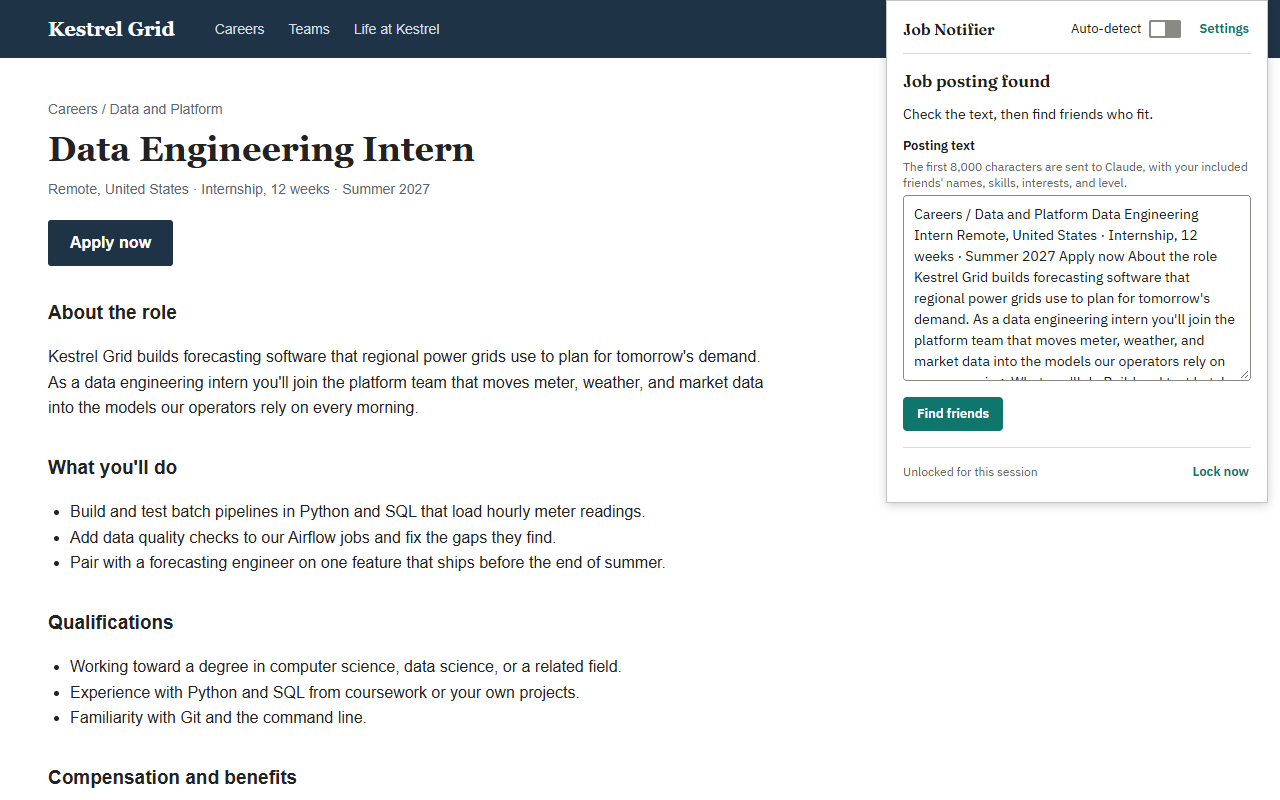
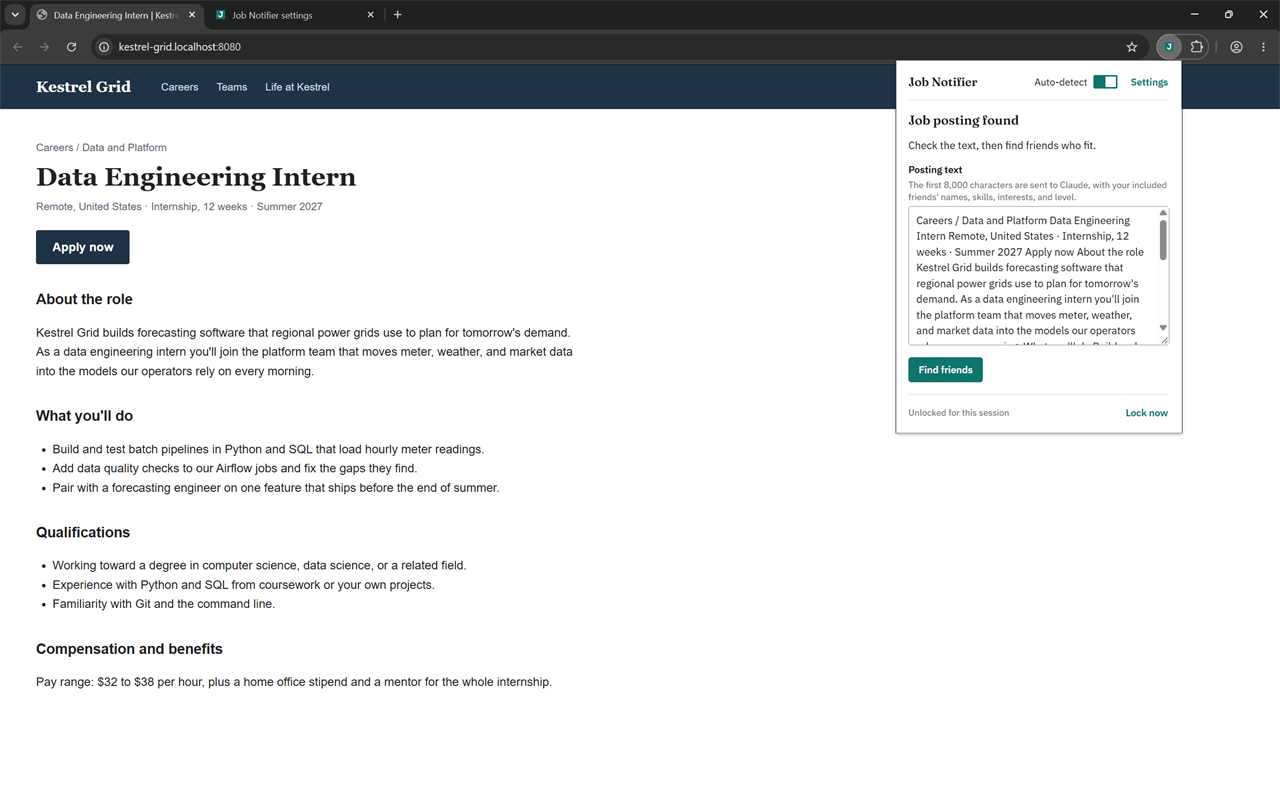
Add the real-Chrome store screenshot 2; all 48 criteria met
The user captured the popup on the store demo page in the clean test
profile (whole window, popup attached to the toolbar icon, no taskbar
or personal browser UI). Scaled without distortion to 1280x800 RGB;
the page's own white background extends the bottom (no scrollbar,
white bottom rows, edge columns checked). designer: PASS.

This closes criterion 21 and P-10, so all 48 release criteria are met.
What remains is the user's: merge PR #4 then this PR, and submit.

diff --git a/PROGRESS.md b/PROGRESS.md
@@ -26,14 +26,13 @@ Specs: [docs/specs/public-release.md](docs/specs/public-release.md) and [docs/sp
   - **0 not met.**
 - Retro: the interim entry plus a final addendum are in `~/Documents/team-notes/retros.md`.
 
+- 2026-11-27: designer confirmed `8384ea1`'s copy fixes and the spec Design copy now matches the shipped UI (`40d5bfb`); `precheck.js` 12.2 updated (`a0ca4ee`).
+- 2026-11-27: store screenshot 2 recaptured by the user in the clean test profile on the store demo page (`kestrel-grid.localhost:8080/`), whole window, no taskbar or personal UI; scaled without distortion to 1280x800 RGB with the page's own white extending the bottom (no scrollbar, white bottom rows, edge columns checked). designer: PASS (candidate A, "Job posting found"). Criterion 21 and P-10 are now met: **48 of 48 criteria met.**
+
 ## Next
-1. **Screenshot-2 decision (the user).** The current `docs/assets/screenshot-2-popup.png` is a whole-window capture with no recorded designer review.
-   - **Recapture:** follow walkthrough 13.1–13.3. The designer reviews the shot, then the lead commits it, runs `npm test`, and rebuilds the zip.
-   - **Drop it from the listing:** the user approves changing criterion 21's "(overlay results, popup, settings)" list. The lead updates the Screenshot 2 row and the "Before you submit" item in `docs/store-listing.md`. Keep the file in the repo, since `test/release.test.js` lists it, unless the user approves a test change.
-2. **Designer re-check of `8384ea1`'s three copy fixes** (P-10). Also review screenshot 2 if it ships.
-3. **Merge PR #4, then PR #5.** PRIVACY.md and the settings page link to `https://github.com/jbear05/job-notifier/blob/main/PRIVACY.md`, which only resolves after PR #5 merges, so merge before submitting.
-4. **Store submission (the user),** using the "Before you submit" checklist in `docs/store-listing.md`.
-- Non-blocking (qa): `docs/walkthrough-auto/precheck.js:1277` still expects the reset-panel copy from before `8384ea1`, so a re-run would fail 12.2 on that string.
+1. **Merge PR #4, then PR #5 (the user).** PRIVACY.md and the settings page link to `https://github.com/jbear05/job-notifier/blob/main/PRIVACY.md`, which only resolves after PR #5 merges, so merge before submitting.
+2. **Build the store zip from `main`** after the merge: `npm run package --script-shell=bash`.
+3. **Store submission (the user),** using the "Before you submit" checklist in `docs/store-listing.md` (developer account, data-use checkboxes, Productivity subcategory).
 
 ## Blocked
-- Nothing beyond the user's decisions: the screenshot-2 choice, then the store submission.
+- Nothing. The remaining steps are the user's: merge, then submit.

diff --git a/docs/specs/public-release.md b/docs/specs/public-release.md
@@ -1072,3 +1072,5 @@ All three .woff2 files start with the `wOF2` signature. Both license texts are S
 - **Next owner:** the user (the screenshot-2 decision), the designer (re-check `8384ea1`, and review screenshot 2 if it ships), then the lead (merge PR #4, then PR #5), then the user (store submission). PM marks 21 and P-10 met once their evidence lands.
 
 **Team lead, store screenshot 2 (2026-11-27):** The user captured the popup in real Chrome. The lead cropped out the Windows taskbar, scaled to 1280x764, and padded a 36px white strip. designer: FAIL. The test page's "Walkthrough links" content shows at the bottom, the strip is padding (the store wants full-bleed), the address bar shows `/walkthrough-pages/`, and an extra "Job Notifier settings" tab is open. No crop can fix it. Plan: the user retakes a full-screen capture with the taskbar auto-hidden, on the store demo page (`docs/assets/harness/demo-posting.html` served as `index.html` at `kestrel-grid.localhost:8080/`; the lead confirmed `JN.isJobPage` is true for it), with a single tab and Light mode preferred. The lead then scales it exactly 50% to 1280x800 RGB, with no crop or padding, for designer to re-review. The rejected crop is left uncommitted in the working tree until the retake replaces it. Also: precheck.js step 12.2 now expects `8384ea1`'s reset-panel wording.
+
+**Team lead, store screenshot 2 final (2026-11-27):** The user's second retake in the user's everyday Chrome profile was rejected by the lead before review: bookmarks (including job-interview folders), other extensions and the profile avatar were visible. The third retake was in the clean test profile on the store demo page at `kestrel-grid.localhost:8080/`. The originals were window-height snips (2559x1521 and 2559x1528). Both pages fit without a scrollbar and the bottom rows were pure white, so the lead scaled each to width 1280 without distortion and extended the page's own white to 800. designer: PASS for candidate A ("Job posting found", whole window, popup attached to the pinned J). The second "Job Notifier settings" tab and the dark Chrome frame are acceptable. B was rejected: it repeats screenshot 1, and its parsed title merged the breadcrumb. The edge columns were checked (no border line at the seam). Installed as `docs/assets/screenshot-2-popup.png`, 1280x800 RGB; `npm test` 158/158. Criterion 21 and P-10 met: **48/48.**
